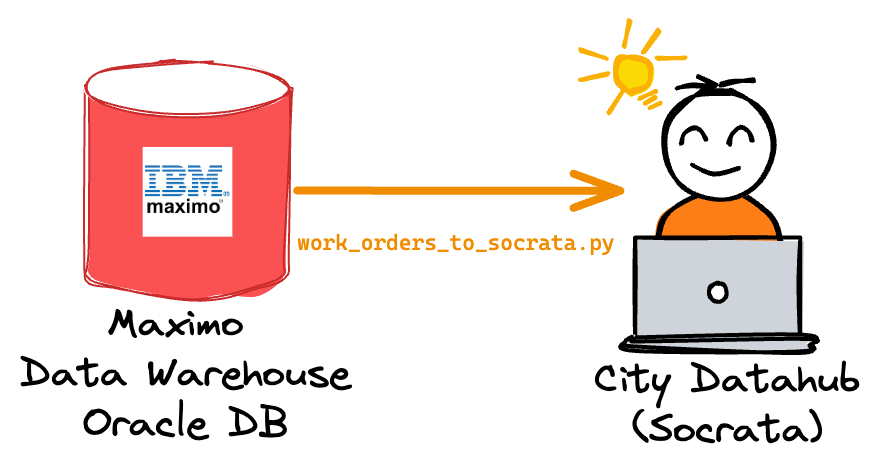
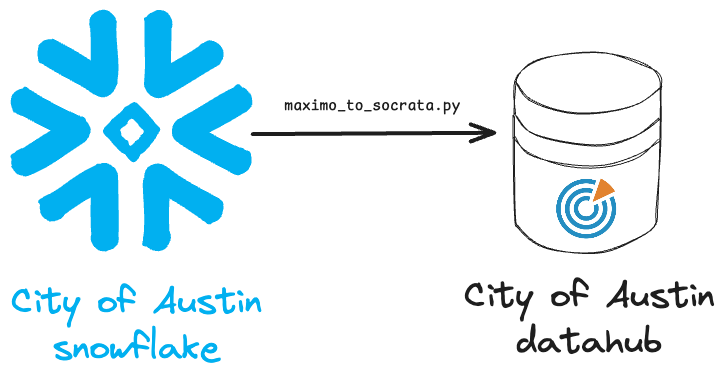
update template and docs

diff --git a/readme.md b/readme.md
@@ -4,9 +4,9 @@ This repo stores scripts used by the Austin Transportation Public Works Departme
 
 ## maximo_to_socrata.py
 
-![diagram of the dataflow going from the Maximo data warehouse oracle DB to the socrata city datahub](docs/dataflow.png)
+![diagram of the dataflow going from the Maximo data warehouse in Snowflake to the socrata city datahub](docs/dataflow.png)
 
-This script publishes data from the Maximo data warehouse oracle DB to the city datahub. This is done to make it easier for city staff to access the data for reporting needs in BI tools such as Power BI.
+This script publishes data from the Maximo data warehouse in Snowflake to the city datahub. This is done to make it easier for city staff to access the data for reporting needs in BI tools such as Power BI.
 
 The three parameters this script takes is `--start`, `--end`, and `--query`, the start and end dates of the work orders to get (based on the record's `CHANGEDATE`). The format of the date passed is quite flexible, so here is an example:
 
@@ -21,7 +21,7 @@ Leaving out `--start` will default to 7 days ago. Leaving out `--end` will defau
 python etl/maximo_to_socrata.py --query work_orders
 ```
 
-The `--query` determines which query `etl/queries.py` (defined as QUERIES) is run. All queries configured there must take `--start` and `--end` arguments.  
+The `--query` determines which query `etl/queries.py` (defined as QUERIES) is run. All queries configured there must take `--start` and `--end` arguments. Queries are written in Snowflake SQL.
 
 ### Logging
 
@@ -32,9 +32,25 @@ Example:
 python etl/maximo_to_socrata.py --query work_order_time_logs --start 2026-07-01 -p
 ```
 
-# Network
+# Configuration
 
-Note that you also must be on the City network to be able to access the Maximo data warehouse. Connect to the VPN before running these scripts.
+The script connects to Snowflake using [key-pair authentication](https://docs.snowflake.com/en/user-guide/key-pair-auth) with a service account. All settings are read from environment variables (see `env_template` for the full list).
+
+| Variable | Description |
+| --- | --- |
+| `SNOWFLAKE_ACCOUNT` | Snowflake account identifier |
+| `SNOWFLAKE_USER` | Service account user name |
+| `SNOWFLAKE_PRIVATE_KEY` | Full PEM text of the service account's private key, including the `-----BEGIN ...-----` and `-----END ...-----` lines |
+| `SNOWFLAKE_PRIVATE_KEY_PASSPHRASE` | Passphrase for the private key, if it is encrypted |
+| `SNOWFLAKE_WAREHOUSE` | Warehouse used to run queries |
+| `SNOWFLAKE_DATABASE` | Database containing the Maximo data |
+| `SNOWFLAKE_SCHEMA` | Schema containing the Maximo data |
+| `SNOWFLAKE_ROLE` | Role used for the connection |
+
+Because PEM keys span multiple lines, the key can be provided in either of two forms:
+
+- **Literal `\n` sequences** in place of line breaks, so the key fits on a single line. The script converts these back to real line breaks before parsing.
+- **Real line breaks**, as it appears in the key file. In a `.env` file, wrap the value in double quotes. Note that this will not work with Docker's `--env-file`.
 
 # Docker
 
@@ -49,5 +65,7 @@ or pull from our dockerhub account:
 Then, provide the environment variables described in env_template to the docker image:
 
 `docker run -it --env-file env_file dts-maximo-reporting:production /bin/bash` 
+
+Note that `--env-file` does not support multi-line values, so `SNOWFLAKE_PRIVATE_KEY` must be provided in the single-line form with literal `\n` sequences.
 
 Then, provide the command you would like to run.
